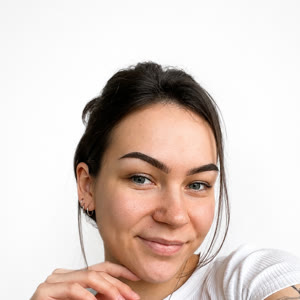
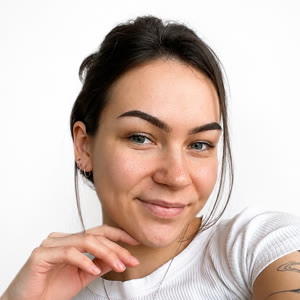
Recenze: plynulý posun přes CSS transform; přerámování fotek týmu (Štěpán, Matěj, Karolina, Magda) + oprava jména Karolina

diff --git a/index.html b/index.html
@@ -387,10 +387,9 @@ a{color:inherit;text-decoration:none;transition:color .2s}
 .reviews .stitle{color:var(--ink)}
 .reviews-sub{font-size:clamp(15px,1.6vw,18px);color:var(--ink-3);max-width:600px;line-height:1.6;margin:0 0 48px}
 .rv-carousel{position:relative}
-.rv-marquee{position:relative;overflow-x:auto;overflow-y:hidden;margin:0 -28px;padding:0 28px;scrollbar-width:none;-ms-overflow-style:none;cursor:grab;-webkit-mask-image:linear-gradient(90deg,transparent,#000 4%,#000 96%,transparent);mask-image:linear-gradient(90deg,transparent,#000 4%,#000 96%,transparent)}
-.rv-marquee::-webkit-scrollbar{display:none}
+.rv-marquee{position:relative;overflow:hidden;margin:0 -28px;padding:0 28px;cursor:grab;-webkit-mask-image:linear-gradient(90deg,transparent,#000 4%,#000 96%,transparent);mask-image:linear-gradient(90deg,transparent,#000 4%,#000 96%,transparent)}
 .rv-marquee.dragging{cursor:grabbing}
-.rv-track{display:flex;width:max-content;padding:8px 0 16px}
+.rv-track{display:flex;width:max-content;padding:8px 0 16px;will-change:transform}
 .rv-arrow{position:absolute;top:47%;transform:translateY(-50%);z-index:6;width:48px;height:48px;border-radius:50%;border:1px solid var(--line);background:rgba(255,255,255,.92);-webkit-backdrop-filter:blur(8px);backdrop-filter:blur(8px);color:var(--ink);font-family:var(--font-d);font-size:26px;line-height:1;display:flex;align-items:center;justify-content:center;cursor:pointer;box-shadow:0 10px 28px rgba(20,17,13,.14);transition:transform .2s,background .2s,border-color .2s}
 .rv-arrow:hover{background:#fff;transform:translateY(-50%) scale(1.08);border-color:var(--brand-soft)}
 .rv-arrow.prev{left:-4px}
@@ -1196,22 +1195,24 @@ body.rv-lock{overflow:hidden}
     var track=document.getElementById('rvTrack');
     if(track){Array.prototype.slice.call(track.children).forEach(function(c){var cl=c.cloneNode(true);cl.setAttribute('aria-hidden','true');cl.tabIndex=-1;track.appendChild(cl);});}
     var cards=document.querySelectorAll('.rv-card');
-    function half(){return track?track.scrollWidth/2:0;}
-    function wrap(){if(!marq)return;var h=half();if(h<=0)return;if(marq.scrollLeft>=h)marq.scrollLeft-=h;else if(marq.scrollLeft<0)marq.scrollLeft+=h;}
-    var hovering=false,dragging=false,arrowAnim=false,last=0;
-    function loop(ts){var dt=ts-(last||ts);last=ts;if(dt>100)dt=16;if(marq&&!hovering&&!dragging&&!arrowAnim){marq.scrollLeft+=dt*0.045;wrap();}requestAnimationFrame(loop);}
+    function setW(){return track?track.scrollWidth/2:1;}
+    var pos=0,hovering=false,dragging=false,tweening=false,lastTs=0;
+    function render(){var w=setW();pos=((pos%w)+w)%w;track.style.transform='translate3d('+(-pos)+'px,0,0)';}
+    function loop(ts){var dt=ts-(lastTs||ts);lastTs=ts;if(dt>100)dt=16;if(track&&!hovering&&!dragging&&!tweening){pos+=dt*0.04;render();}requestAnimationFrame(loop);}
     requestAnimationFrame(loop);
     if(marq){marq.addEventListener('mouseenter',function(){hovering=true;});marq.addEventListener('mouseleave',function(){hovering=false;});}
     function page(){return marq?Math.max(marq.clientWidth-40,300):300;}
-    function step(dir){if(!marq)return;arrowAnim=true;marq.scrollBy({left:dir*page(),behavior:'smooth'});setTimeout(function(){wrap();arrowAnim=false;},700);}
+    function step(dir){if(tweening||!track)return;tweening=true;var start=pos,ch=dir*page(),t0=0;
+      function tk(now){if(!t0)t0=now;var p=Math.min((now-t0)/600,1),e=1-Math.pow(1-p,3);pos=start+ch*e;render();if(p<1)requestAnimationFrame(tk);else tweening=false;}
+      requestAnimationFrame(tk);}
     var pv=document.getElementById('rvPrev'),nx=document.getElementById('rvNext');
     if(pv)pv.addEventListener('click',function(){step(-1);});
     if(nx)nx.addEventListener('click',function(){step(1);});
-    var down=false,sx=0,sl=0,moved=false;
+    var down=false,sx=0,sp=0,moved=false;
     if(marq){
-      marq.addEventListener('pointerdown',function(e){down=true;dragging=true;moved=false;sx=e.clientX;sl=marq.scrollLeft;marq.classList.add('dragging');try{marq.setPointerCapture(e.pointerId);}catch(_){}});
-      marq.addEventListener('pointermove',function(e){if(!down)return;var dx=e.clientX-sx;if(Math.abs(dx)>5)moved=true;marq.scrollLeft=sl-dx;});
-      var endDrag=function(){if(!down)return;down=false;dragging=false;marq.classList.remove('dragging');wrap();};
+      marq.addEventListener('pointerdown',function(e){down=true;dragging=true;moved=false;sx=e.clientX;sp=pos;marq.classList.add('dragging');try{marq.setPointerCapture(e.pointerId);}catch(_){}});
+      marq.addEventListener('pointermove',function(e){if(!down)return;var dx=e.clientX-sx;if(Math.abs(dx)>5)moved=true;pos=sp-dx;render();});
+      var endDrag=function(){if(!down)return;down=false;dragging=false;marq.classList.remove('dragging');};
       marq.addEventListener('pointerup',endDrag);
       marq.addEventListener('pointercancel',endDrag);
     }
@@ -1633,8 +1634,8 @@ body.rv-lock{overflow:hidden}
       </div>
       <div class="tm reveal">
         <div class="tm-tooltip">Zodpovídá za kvalitu výstupů z Kinsoo.</div>
-        <div class="tm-photo"><span class="tm-initials">KK</span><img src="assets/team/karolina.jpg" alt="Karolína Kubíčková" onerror="this.remove()" /></div>
-        <div class="tm-name">Karolína Kubíčková</div>
+        <div class="tm-photo"><span class="tm-initials">KK</span><img src="assets/team/karolina.jpg" alt="Karolina Kubíčková" onerror="this.remove()" /></div>
+        <div class="tm-name">Karolina Kubíčková</div>
         <div class="tm-role">Lead Video Editor + fotograf</div>
       </div>
       <div class="tm reveal">
